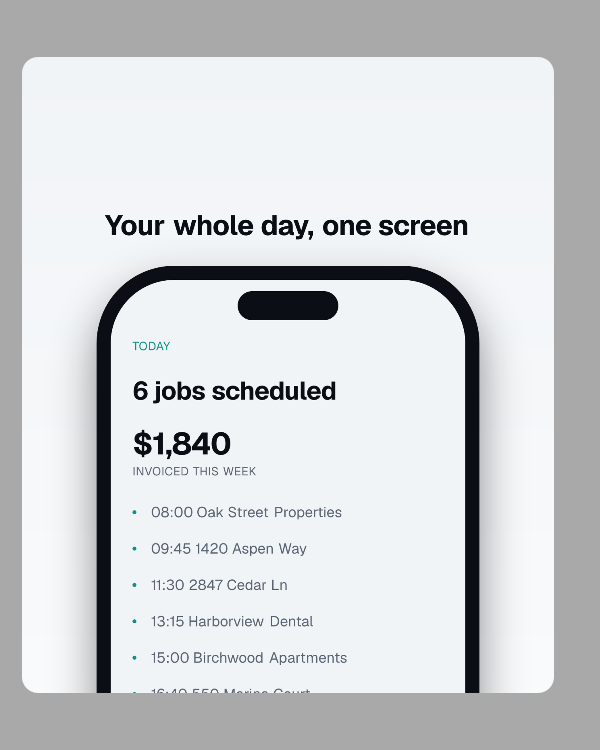
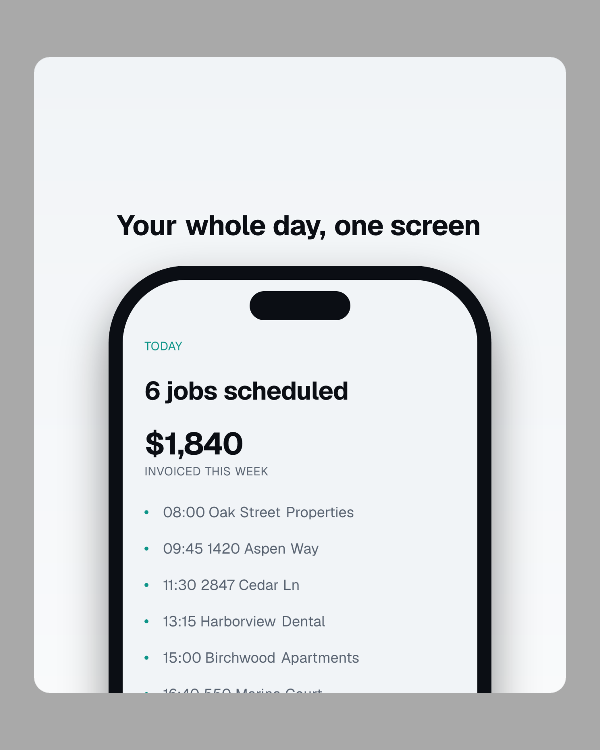
fix(example): centre a single card in the pair layout
The layout emitted a cell for every slot, filled or not. A zero width cell still
sits on the far side of the row's gap, so a frame filling one slot rendered half
a gap left of centre: 22px of field on the left and 46px on the right.

Nothing reported it. The spec was valid, the canvas was the right size, and the
offset is small enough to read as intentional until you measure the margins.

An empty slot now contributes no cell, so the gap only appears between cells that
exist. The hero renders at 34px of field on each side.

The regenerated image is committed, and render-readme-assets fails on any drift
from it, which is what guards this from coming back.

diff --git a/examples/source-app/mediakit.config.ts b/examples/source-app/mediakit.config.ts
@@ -236,8 +236,16 @@ const pair = defineLayout({
     const gap = spaceToken(tokens, 'md');
     const labelGap = spaceToken(tokens, 'sm');
 
+    /**
+     * Returns nothing for a slot with no blocks in it, rather than an empty div. A zero width
+     * cell still sits on the far side of the row's `gap`, so a frame that fills one slot had
+     * its card pushed half a gap off centre, which reads as a mistake and is invisible in the
+     * spec that caused it.
+     */
     const cell = (name: string) => {
       const items = slots[name] ?? [];
+      if (items.length === 0) return undefined;
+
       const screenshot = items[0];
       const labels = items.slice(1);
       const imageHeight =
